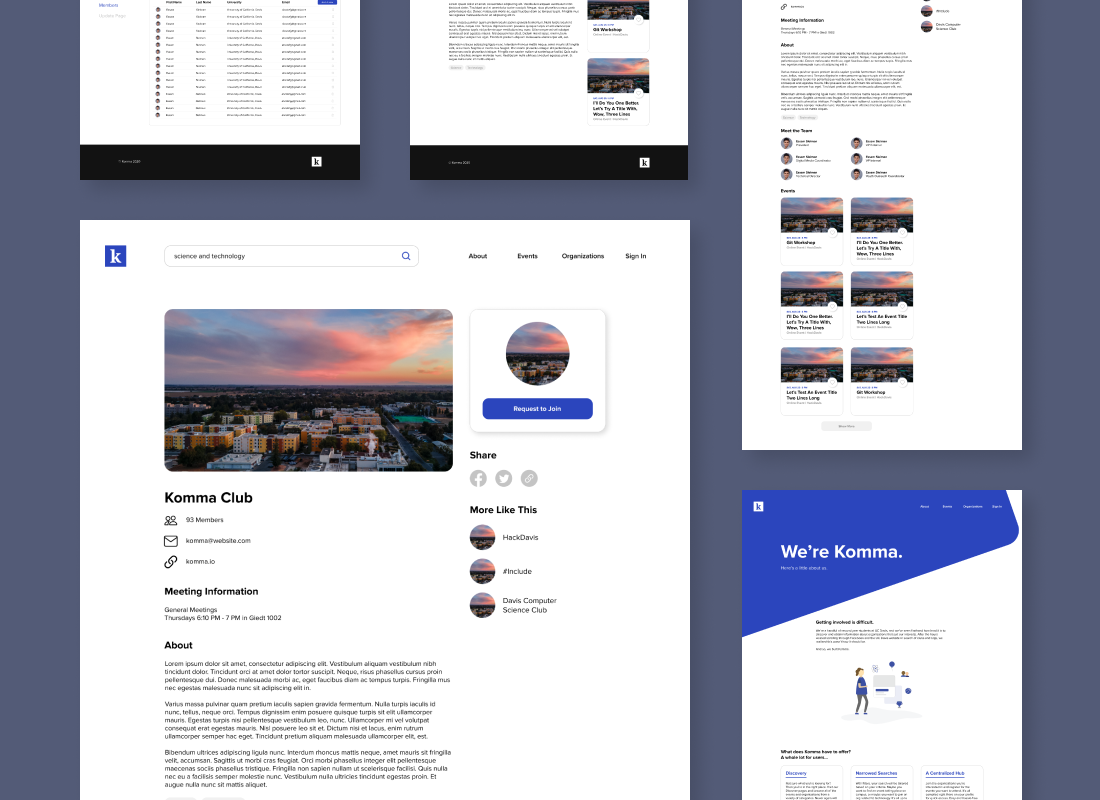
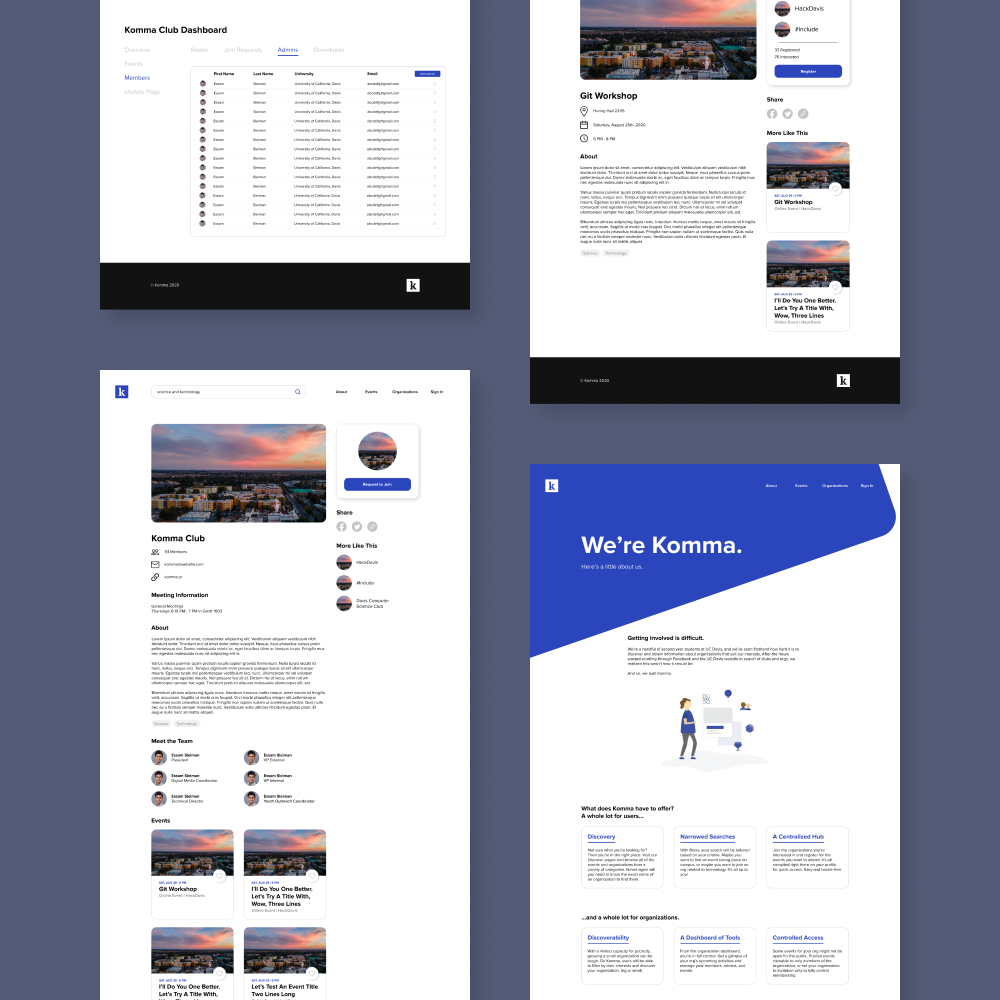
Moved old Komma out of featured

diff --git a/index.html b/index.html
@@ -130,20 +130,6 @@
             </div>
           </div>
         </a>
-        <a href="komma.html">
-          <div class="row no-gutters">
-            <div class="left col-md-7">
-              <img src="Images/Komma.png" alt="Komma Prototype">
-            </div>
-            <div class="right col-md-5">
-              <h4 class="bold">FRONTEND & UI/UX DESIGN</h4>
-              <h2 class="demi">A Hub for Involvement</h2>
-              <p>Wireframed and styled a web platform for event sharing between university communities</p>
-              <h5 class="italic">ReactJS, Figma</h5>
-              <img class="arrow-link" src="Images/Arrow.svg" alt="arrow">
-            </div>
-          </div>
-        </a>
       </section>
 
       <section class="other-work">
@@ -155,6 +141,14 @@
               <h4 class="bold">PYTHON WEB SCRAPING</h4>
               <p class="demi">Reddit Metadata Scraper</p>
               <h4 class="description">Scraped Reddit subreddit metadata over several months using Python, PRAW, and Supervisord</h4>
+            </a>
+          </div>
+          <div class="col-md-6">
+            <a href="komma.html">
+              <img src="Images/Komma.png" alt="Komma Prototype">
+              <h4 class="bold">FRONTEND & UI/UX DESIGN</h4>
+              <p class="demi">A Hub for Involvement</p>
+              <h4 class="description">Wireframed and styled a web platform for event sharing between university communities using ReactJS and Figma</h4>
             </a>
           </div>
         </div>
